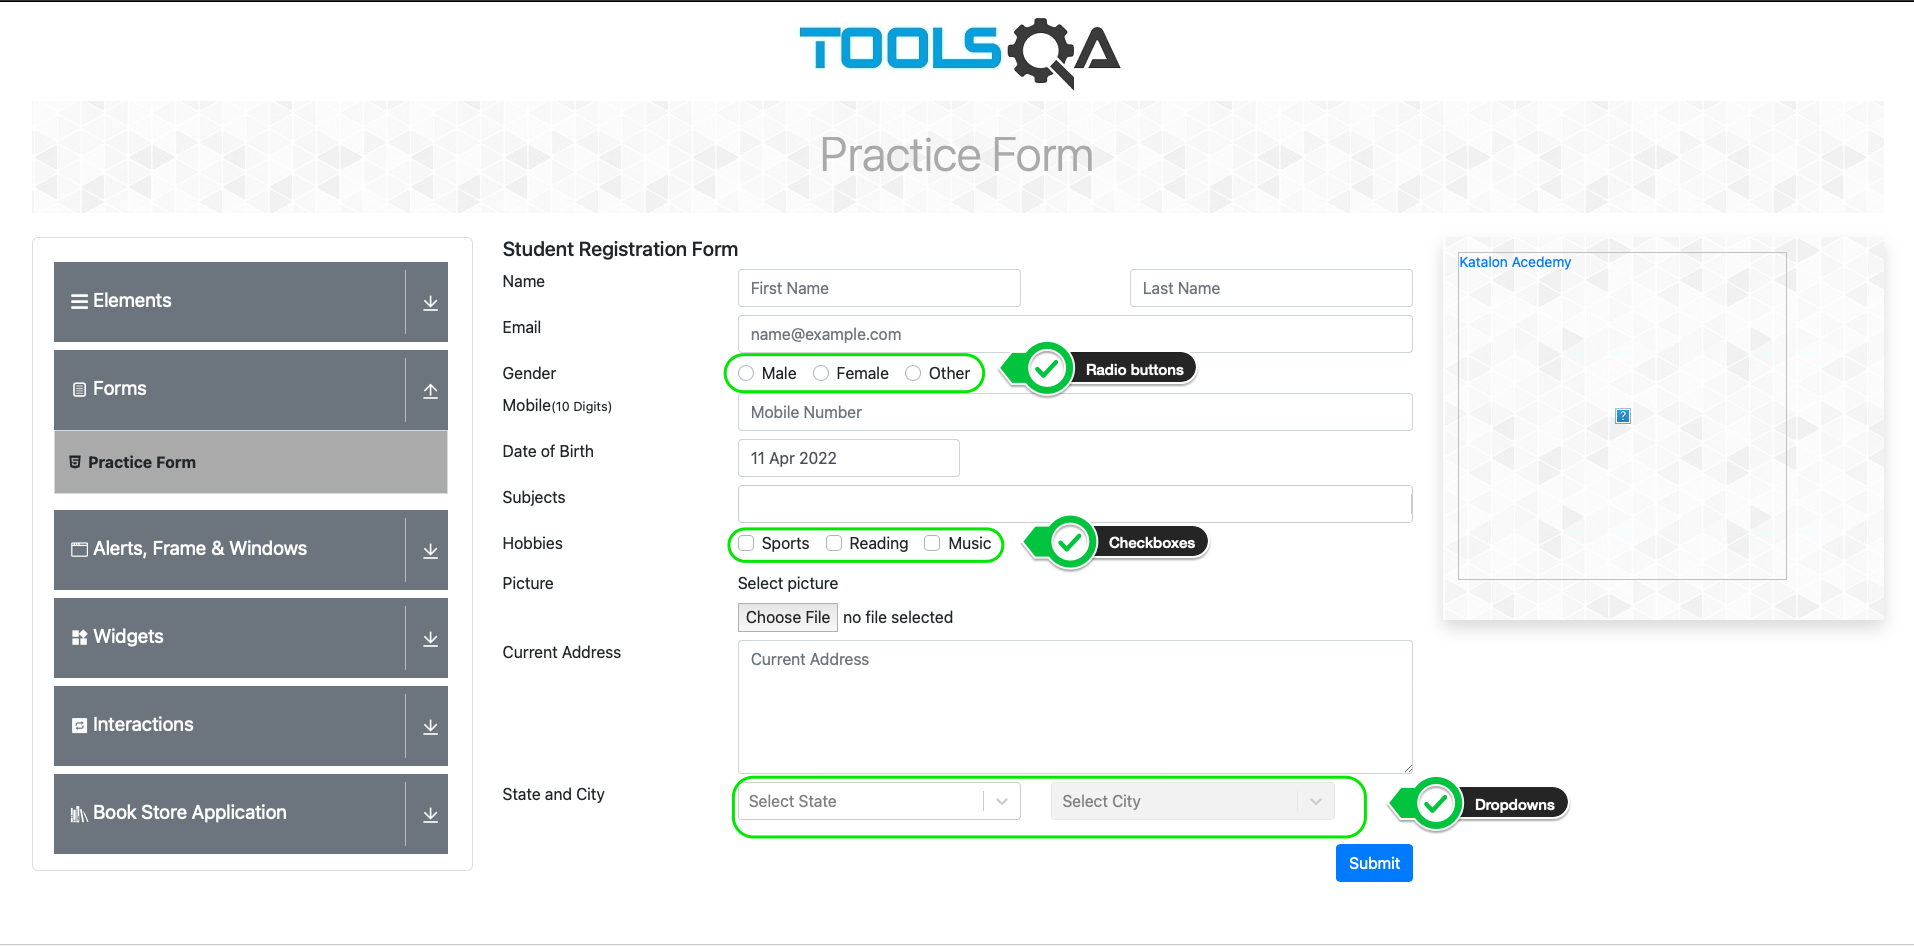
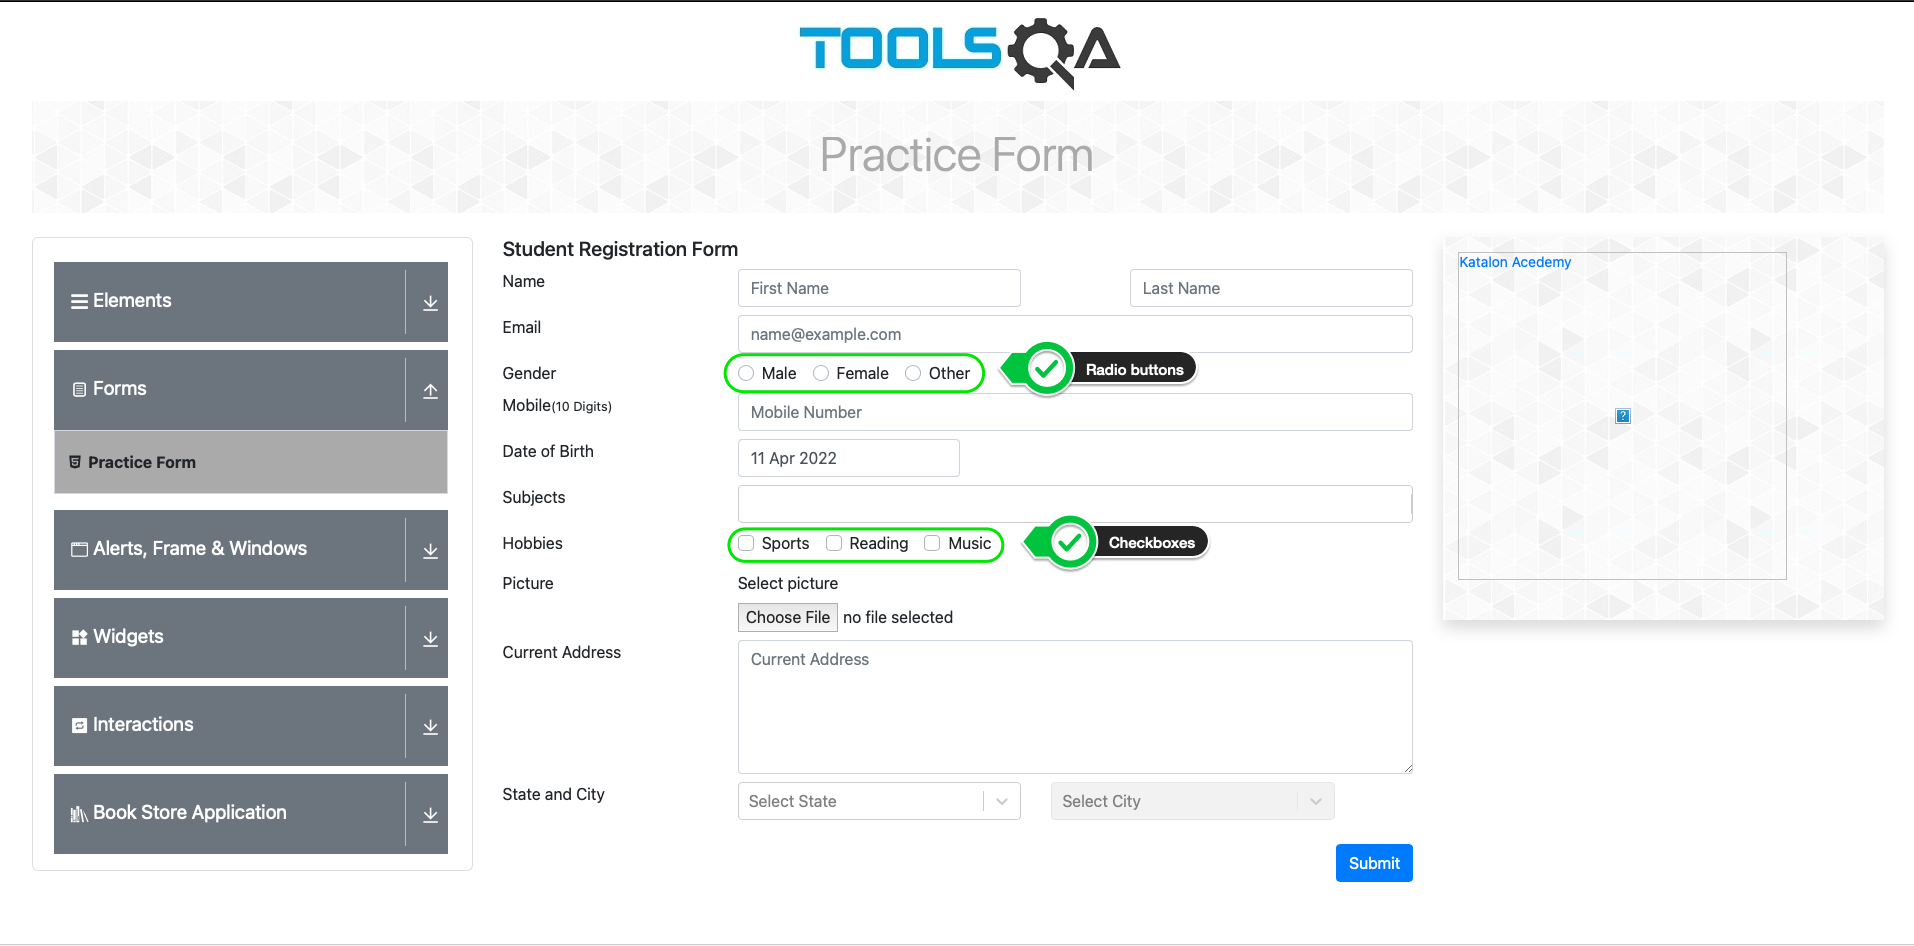
Report 12 - Updates based on feedback from Dr. Craven.

Changed region(s): [[0.3699, 0.8277, 0.8323, 0.889], [0.4007, 0.797, 0.709, 0.8277]]

diff --git a/tests/test_checkbox.py b/tests/test_checkbox.py
@@ -1,0 +1,114 @@
+# Test Checkbox Selection
+
+from selenium import webdriver
+from selenium.webdriver.common.by import By
+from selenium.webdriver.common.action_chains import ActionChains
+import time
+
+
+class TestCheckboxSelection:
+
+    # Launch Chrome browser
+    def setup_method(self, method):
+        self.driver = webdriver.Chrome()
+        self.vars = {}
+
+    # Close browser after each session
+    def teardown_method(self, method):
+        self.driver.quit()
+
+    # Checkbox Selection
+    def test_checkbox_selection(self):
+        # Add a Wait in the event an element is missing
+        self.driver.implicitly_wait(5)
+
+        # Navigate to practice form URL
+        self.driver.get("https://demoqa.com/automation-practice-form")
+
+        # Enter first & last Name
+        self.driver.find_element(By.ID, "firstName").send_keys("Test")
+        self.driver.find_element(By.ID, "lastName").send_keys("Tester")
+
+        # Provide user email
+        self.driver.find_element(By.ID, "userEmail").send_keys("test@test.com")
+
+        # Find and assign a variable to the female radio button option
+        radio_button_female = self.driver.find_element(By.CSS_SELECTOR
+                                                       , ".custom-radio:"
+                                                         "nth-child(2) > "
+                                                         ".custom-control-label"
+                                                       )
+        # Click on the radio button
+        radio_button_female.click()
+
+        # verify that radio button was selected
+        selected_radio_button_female = self.driver.find_element(By.ID,
+                                                                "gender-radio-2")
+        assert selected_radio_button_female.is_selected(), "\n'Gender = " \
+                                                           "Female' radio " \
+                                                           "cannot be " \
+                                                           "selected at this " \
+                                                           "time. "
+        # Enter phone number
+        self.driver.find_element(By.ID, "userNumber").send_keys("1234567890")
+
+        # Assign Variables to Checkbox options
+        sports_checkbox = self.driver.find_element(By.CSS_SELECTOR,
+                                                   ".custom-checkbox:nth-child(1) >"
+                                                   " .custom-control-label")
+        music_checkbox = self.driver.find_element(By.CSS_SELECTOR,
+                                                  ".custom-checkbox:nth-child(3) >"
+                                                  " .custom-control-label")
+
+        # Add conditional logic to handle selection of the checkboxes as follows:
+        # If checkboxes are not displayed, stop the test and print message to
+        # notify user:
+        if (not sports_checkbox.is_displayed()) or (not music_checkbox.is_displayed()):
+
+            # Add nested IF statement to identify which element is not displayed:
+            if not sports_checkbox.is_displayed():
+                assert sports_checkbox.is_displayed(), "\n'Hobby = Sports' " \
+                                                       "checkbox is not visible."
+            elif not music_checkbox.is_displayed():
+                assert music_checkbox.is_displayed(), "\n'Hobby = Music' " \
+                                                      "checkbox is not visible."
+            else:
+                assert sports_checkbox.is_displayed(), "\n'Hobby = Sports' " \
+                                                       "checkbox is not visible."
+                assert music_checkbox.is_displayed(), "\n'Hobby = Music' " \
+                                                      "checkbox is not visible."
+
+        # Else if either checkboxes are disabled, stop the test and notify user:
+        elif (not sports_checkbox.is_enabled()) or (not music_checkbox.is_enabled()):
+
+            # Add nested IF statement to identify which element is not enabled:
+            if not sports_checkbox.is_enabled():
+                assert sports_checkbox.is_enabled(), "\n'Hobby = Sports' " \
+                                                     "checkbox is not enabled."
+            elif not music_checkbox.is_enabled():
+                assert music_checkbox.is_enabled(), "\n'Hobby = Music' " \
+                                                    "checkbox is not enabled."
+            else:
+                print("Both of your checkbox options are not enabled!")
+
+        # Else, click both checkboxes and validate that they are selected:
+        else:
+            # Use JavaScript to perform click and avoid obscuring elements
+            self.driver.execute_script("arguments[0].click();", sports_checkbox)
+            select_sports_checkbox = self.driver.find_element(By.ID,
+                                                              "hobbies-checkbox-1")
+            assert select_sports_checkbox.is_selected(), "\n'Hobby = " \
+                                                         "Sports' checkbox" \
+                                                         "cannot be " \
+                                                         "selected at this " \
+                                                         "time. "
+
+            # Use JavaScript to perform click and avoid obscuring elements
+            self.driver.execute_script("arguments[0].click();", music_checkbox)
+            select_music_checkbox = self.driver.find_element(By.ID,
+                                                             "hobbies-checkbox-3")
+            assert select_music_checkbox.is_selected(), "\n'Hobby = " \
+                                                        "Music' checkbox" \
+                                                        "cannot be " \
+                                                        "selected at this " \
+                                                        "time. "

diff --git a/tests/test_radio_button.py b/tests/test_radio_button.py
@@ -1,0 +1,70 @@
+# Test Radio Button Selection
+
+from selenium import webdriver
+from selenium.webdriver.common.by import By
+from selenium.webdriver.common.action_chains import ActionChains
+import time
+
+
+class TestRadioButtonSelection:
+
+    # Launch Chrome browser
+    def setup_method(self, method):
+        self.driver = webdriver.Chrome()
+        self.vars = {}
+
+    # Close browser after each session
+    def teardown_method(self, method):
+        self.driver.quit()
+
+    # Radio Button Selection
+    def test_radio_button_selection(self):
+
+        # Add a Wait in the event an element is missing
+        self.driver.implicitly_wait(5)
+
+        # Navigate to practice form URL
+        self.driver.get("https://demoqa.com/automation-practice-form")
+
+        # Enter first & last Name
+        self.driver.find_element(By.ID, "firstName").send_keys("Test")
+        self.driver.find_element(By.ID, "lastName").send_keys("Tester")
+
+        # 8 Provide user email
+        self.driver.find_element(By.ID, "userEmail").send_keys("test@test.com")
+
+        # Find and assign a variable to the female radio button option
+        radio_button_female = self.driver.find_element(By.CSS_SELECTOR
+                                                       , ".custom-radio:"
+                                                         "nth-child(2) > "
+                                                         ".custom-control-label"
+                                                       )
+
+        # Add conditional logic to handle selection of the radio button as follows:
+        # If radio button is not displayed, stop the test and print message to
+        # notify user:
+        if not radio_button_female.is_displayed():
+            assert radio_button_female.is_displayed(), "\n'Gender = Female' " \
+                                                       "radio button is not " \
+                                                       "visible."
+
+        # Else if radio button is displayed, but not enabled, stop the test and
+        # print message to notify user
+        elif radio_button_female.is_displayed() & \
+                (not radio_button_female.is_enabled()):
+            assert radio_button_female.is_enabled(), "\n'Gender = Female' " \
+                                                     "radio not enabled."
+
+        # Else, click on the radio button and verify that it is selected
+        else:
+            radio_button_female.click()
+
+            # Because a different element registers the radio button selection,
+            # we shall use a different element to validate the selection:
+            selected_radio_button_female = self.driver.find_element(By.ID,
+                                                                    "gender-radio-2")
+            assert selected_radio_button_female.is_selected(), "\n'Gender = " \
+                                                               "Female' radio " \
+                                                               "cannot be " \
+                                                               "selected at this " \
+                                                               "time. "

diff --git a/source/report-12/report12.rst b/source/report-12/report12.rst
@@ -20,10 +20,10 @@ Overview
 
 There are scenarios that require users to make various types of selections,
 ranging from single to multiple selection options. This section covers how to
-automate making selections using radio buttons, checkboxes and dropdowns.
+automate making selections using radio buttons and checkboxes.
 
-We will be using a practice form from the DemoQA website to demonstrate how to
-automate selection elements.
+We will be using a practice form from the DemoQA website for demonstration
+purposes.
 
 .. figure:: ../image/Test-DemoQA.png
    :width: 800px
@@ -35,7 +35,7 @@ automate selection elements.
 Radio Buttons
 -------------
 
-A radio button (🔘) is an graphical control element used for making selections.
+A radio button (🔘) is a graphical control element used for making selections.
 Radio buttons are limited to choosing only one option in a given instance, i.e.:
 when grouped together in a section, only one radio button option can be selected.
 This property is what gives radio buttons their name: Similar to the physical
@@ -72,11 +72,21 @@ enabled, will be required:
    Radio Buttons Required [#f1]_
 
 The test script below begins by navigating to the form, entering pertinent data,
-then checks to see whether or not the *Female* radio button is present and
-enabled. The radio is then selected and an assertion confirms that the
-selection was successful.
+then checks whether or not the appropriate radio button selection option is
+present and enabled. The radio button is then selected and an assertion confirms
+that the selection was successful.
 
-[Insert Test]
+.. literalinclude:: ../../tests/test_radio_button.py
+   :linenos:
+   :lines: 1-70
+   :emphasize-lines: 36-70
+   :caption: Radio Button Selection
+
+**Note**: From line 58 on, you may notice that we used one element to trigger
+the click event, but a different element to validate that the radio button had
+been selected. This is because the element that triggers the click event and the
+one that registers that the radio button was selected are different. This is
+seen from time to time where ReactJS dynamic components are used.
 
 .. _checkboxes:
 
@@ -87,20 +97,20 @@ In relation to radio buttons, checkboxes (☐ , ☒ , ☑) are defined as gra
 widgets that allow users to select multiple options in a given instance. In
 other words, where a user would only select one option for radio buttons, they
 can select multiple options with checkboxes. Checkboxes are thus used in
-situations where more than one option can be chosen, i.e.: *choosing all that
+situations where more than one option can be chosen, e.g.: *choosing all that
 apply*.
 
 While a good programmer will ensure that at least one checkbox is required (or
 at least have a checkbox that accounts for "Not Applicable"), you may encounter
 situations where having no checkbox required is acceptable. Additionally, unlike
-radio buttons, clicking into an already-checked checkbox will undo the action,
-returning it to a blank/un-checked state.
+radio buttons, clicking into an already-checked checkbox will undo that action,
+returning the checkbox to a blank/un-checked state.
 
 Therefore, when automating for checkboxes, it is important to be mindful of the
 number of clicks performed on a box. Or, at the very least, ensure that the
 ``is_selected()`` boolean returns ``TRUE`` where expected.
 
-Before we can write an automation script for checkbox automation, we should
+Before we can write an automation script for checkbox validation, we should
 check whether checkbox selection is required for form submission. We do this by
 filling out all pertinent fields and leaving the checkboxes blank.
 
@@ -120,30 +130,26 @@ checkbox (Hobbies) options.
 
 The reason it is important to know whether the checkbox options are required or
 not depend upon the scenarios we automate. If you need to write a test that
-ensures hobbies, when present, are included in the submitted form, then your
-test script would need to assert that some boxes are checked before submission.
+ensures *Hobbies* selection options, when present, are included in the submitted
+form, then your test script would need to assert that some boxes are checked
+before submission.
 
 Thus, the test script below is written to enter all pertinent fields, select
-both sports and music hobbies, assert that these options are selected, and
-submit the form.
+both *Sports* and *Music* hobbies, and assert whether these options are
+selected.
 
-[Insert Test]
-
-.. _dropdowns:
-
-Dropdowns
----------
-
-[Insert updated dropdown documentation if time permits]
-
-[Insert dropdown test]
+.. literalinclude:: ../../tests/test_checkbox.py
+   :linenos:
+   :lines: 1-111
+   :emphasize-lines: 55-111
+   :caption: Checkbox Selection
 
 .. _time spent12:
 
 Breakdown of Time Spent
 -----------------------
 
-**Total Hours**: **12.5 hours**
+**Total Hours**: **13.5 hours**
 
 * **Friday, 4-8-2022**: 2 hours
    * Researched radio button, checkbox and dropdown automation.
@@ -153,16 +159,16 @@ Breakdown of Time Spent
    * Added documentation for checkboxes.
    * Continued research for dropdown automation.
 
-* **Sunday, 4-20-2022**: 2 hours
+* **Sunday, 4-10-2022**: 2 hours
    * Added more radio button and checkbox documentation.
 
-* **Monday, 4-11-2022**: 5.5 hours
+* **Monday, 4-11-2022**: 6.5 hours
    * Added test script for radio buttons.
    * Added test script for checkboxes.
-   * Documented and wrote a test script for dropdowns.
    * Cleaned up documentation and checked for spelling errors.
-   * Pushed code to GitHub.
    * Reviewed report with Dr. Craven.
+   * Made some changes based on feedback from Dr. Craven.
+   * Pushed code to GitHub.
 
 .. _references12:
 
